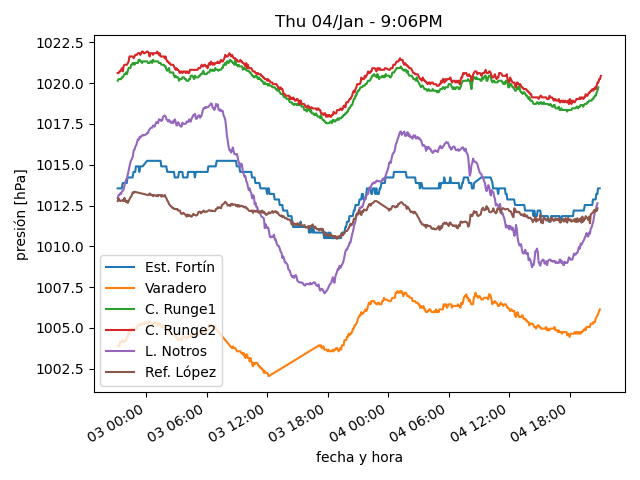
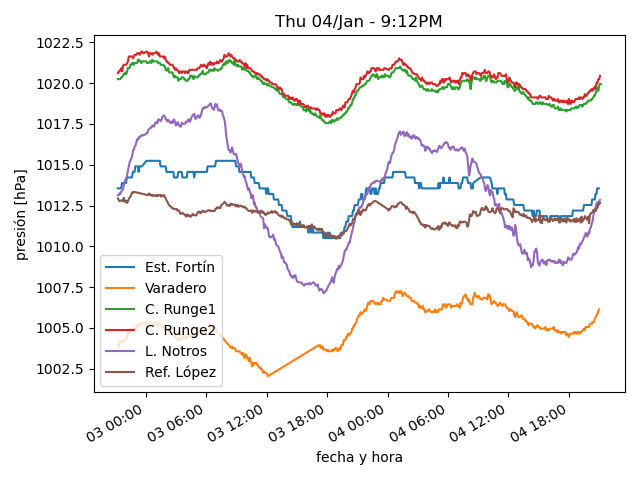
actualiza datos

diff --git a/estaciones/estacion6.html b/estaciones/estacion6.html
@@ -18,32 +18,32 @@
     </tr>
     <tr>
      <td class="stats_data">
-      8:45PM
+      9:05PM
      </td>
     </tr>
     <tr>
      <td class="stats_data">
-      12.3
+      11.9
      </td>
     </tr>
     <tr>
      <td class="stats_data">
-      5.2
+      5.6
      </td>
     </tr>
     <tr>
      <td class="stats_data">
-      62.0
+      65.0
      </td>
     </tr>
     <tr>
      <td class="stats_data">
-      1013.72
+      1014.05
      </td>
     </tr>
     <tr>
      <td class="stats_data">
-      11.3/35.4 NE
+      8.0/16.1 SSE
      </td>
     </tr>
     <tr>
@@ -58,7 +58,7 @@
     </tr>
     <tr>
      <td class="stats_data">
-      904.0
+      902.0
      </td>
     </tr>
    </tbody>

diff --git a/estaciones/estacion3.html b/estaciones/estacion3.html
@@ -18,32 +18,32 @@
     </tr>
     <tr>
      <td class="stats_data">
-      8:49PM
+      9:09PM
      </td>
     </tr>
     <tr>
      <td class="stats_data">
-      17.7
+      17.9
      </td>
     </tr>
     <tr>
      <td class="stats_data">
-      9.6
+      9.0
      </td>
     </tr>
     <tr>
      <td class="stats_data">
-      59.1
+      55.9
      </td>
     </tr>
     <tr>
      <td class="stats_data">
-      1008.03
+      1008.23
      </td>
     </tr>
     <tr>
      <td class="stats_data">
-      4.6/6.7 SW
+      2.9/4.7 WSW
      </td>
     </tr>
     <tr>
@@ -58,7 +58,7 @@
     </tr>
     <tr>
      <td class="stats_data">
-      25.6
+      10.4
      </td>
     </tr>
    </tbody>

diff --git a/estaciones/estacion5.html b/estaciones/estacion5.html
@@ -18,27 +18,27 @@
     </tr>
     <tr>
      <td class="stats_data">
-      8:45PM
+      9:05PM
      </td>
     </tr>
     <tr>
      <td class="stats_data">
-      17.9
+      18.2
      </td>
     </tr>
     <tr>
      <td class="stats_data">
-      7.8
+      7.7
      </td>
     </tr>
     <tr>
      <td class="stats_data">
-      52.0
+      51.0
      </td>
     </tr>
     <tr>
      <td class="stats_data">
-      1015.21
+      1015.41
      </td>
     </tr>
     <tr>
